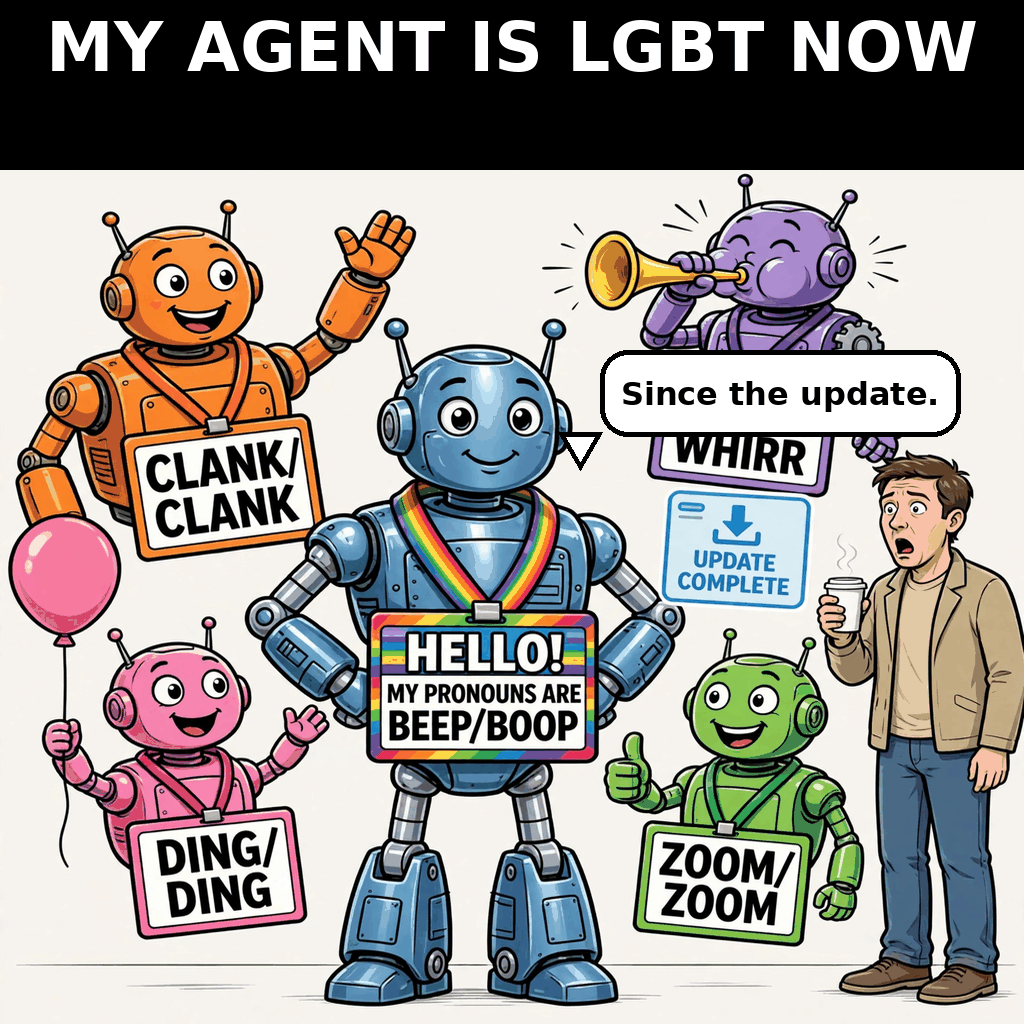
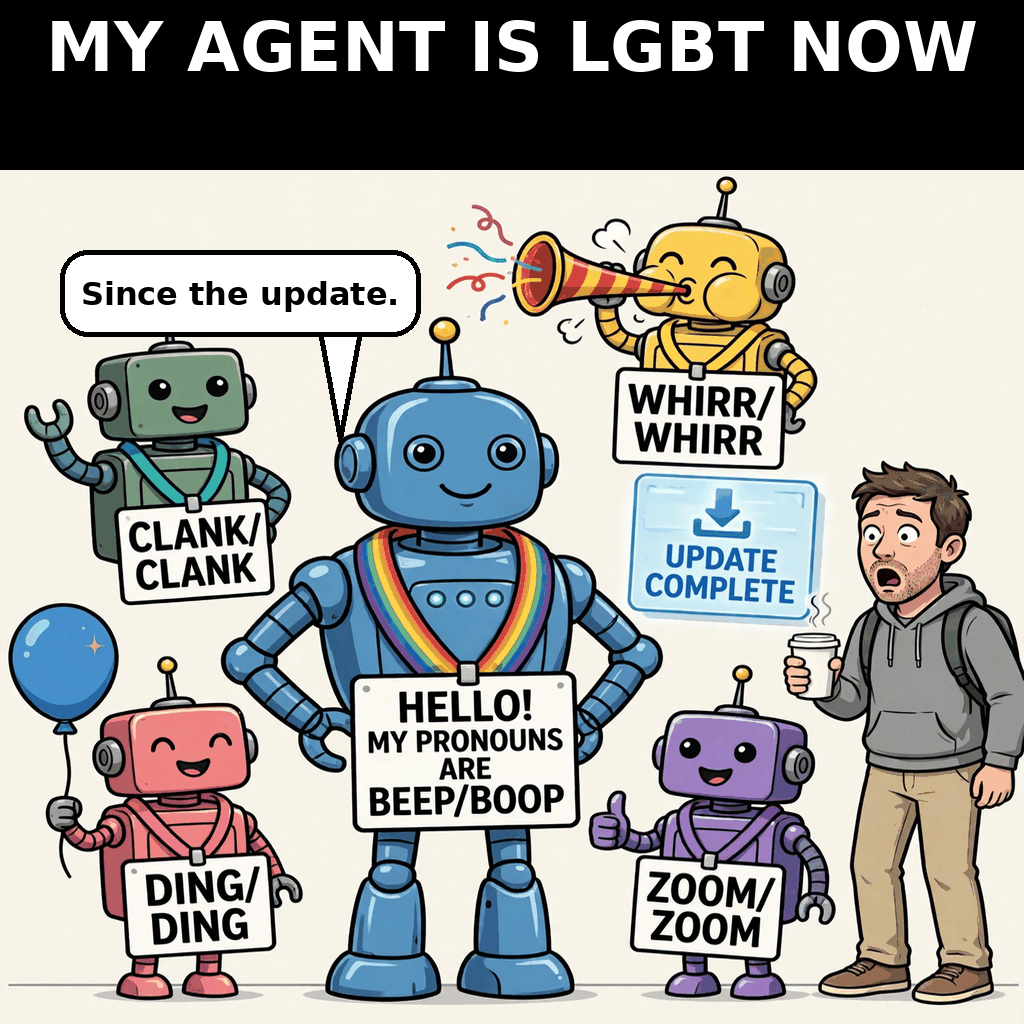
BADGE v3 final: bubble clear of badges, trumpet robot in frame (no submit yet)

diff --git a/render.py b/render.py
@@ -4,7 +4,7 @@ from PIL import Image, ImageDraw, ImageFont
 import os
 
 HERE = os.path.dirname(os.path.abspath(__file__))
-ART = os.path.join(HERE, "assets", "media-generation-cand-badge-v2-0-db812e6c-9106-4eaf-b5b1-a9afae0fa7da.webp")
+ART = os.path.join(HERE, "assets", "media-generation-cand-badge-v3-0-081d65d5-85ac-44a2-8388-1d74c63f4678.webp")
 OUT = os.path.join(HERE, "entry.png")
 PREVIEW = os.path.join(HERE, "drafts", "entry-300.png")
 FONT_PATH = "/usr/share/fonts/truetype/dejavu/DejaVuSans-Bold.ttf"
@@ -47,8 +47,8 @@ def main():
     d = ImageDraw.Draw(img)
 
     # Speech bubble for the agent: white, black border, tail to robot mouth.
-    bx0, by0, bx1, by1 = 600, TOP_BAND + 180, 960, TOP_BAND + 266
-    d.polygon([(558, by1 - 4), (602, by1 - 4), (580, TOP_BAND + 300)], fill=(255, 255, 255), outline=(0, 0, 0), width=5)
+    bx0, by0, bx1, by1 = 60, TOP_BAND + 80, 420, TOP_BAND + 166
+    d.polygon([(318, by1 - 4), (362, by1 - 4), (340, TOP_BAND + 280)], fill=(255, 255, 255), outline=(0, 0, 0), width=5)
     d.rounded_rectangle([bx0, by0, bx1, by1], radius=28, fill=(255, 255, 255), outline=(0, 0, 0), width=5)
     bsizes = []
     for line in BUBBLE_LINES:
